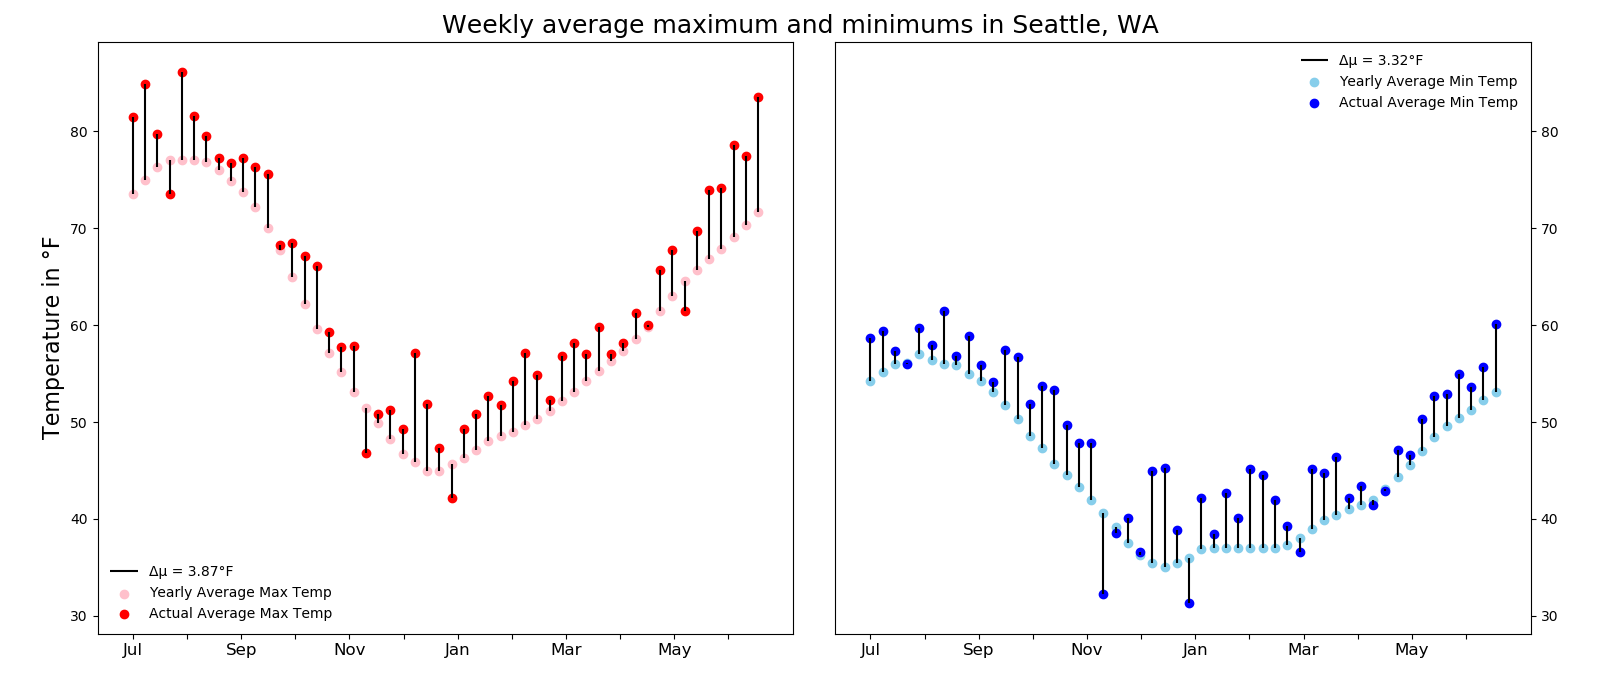
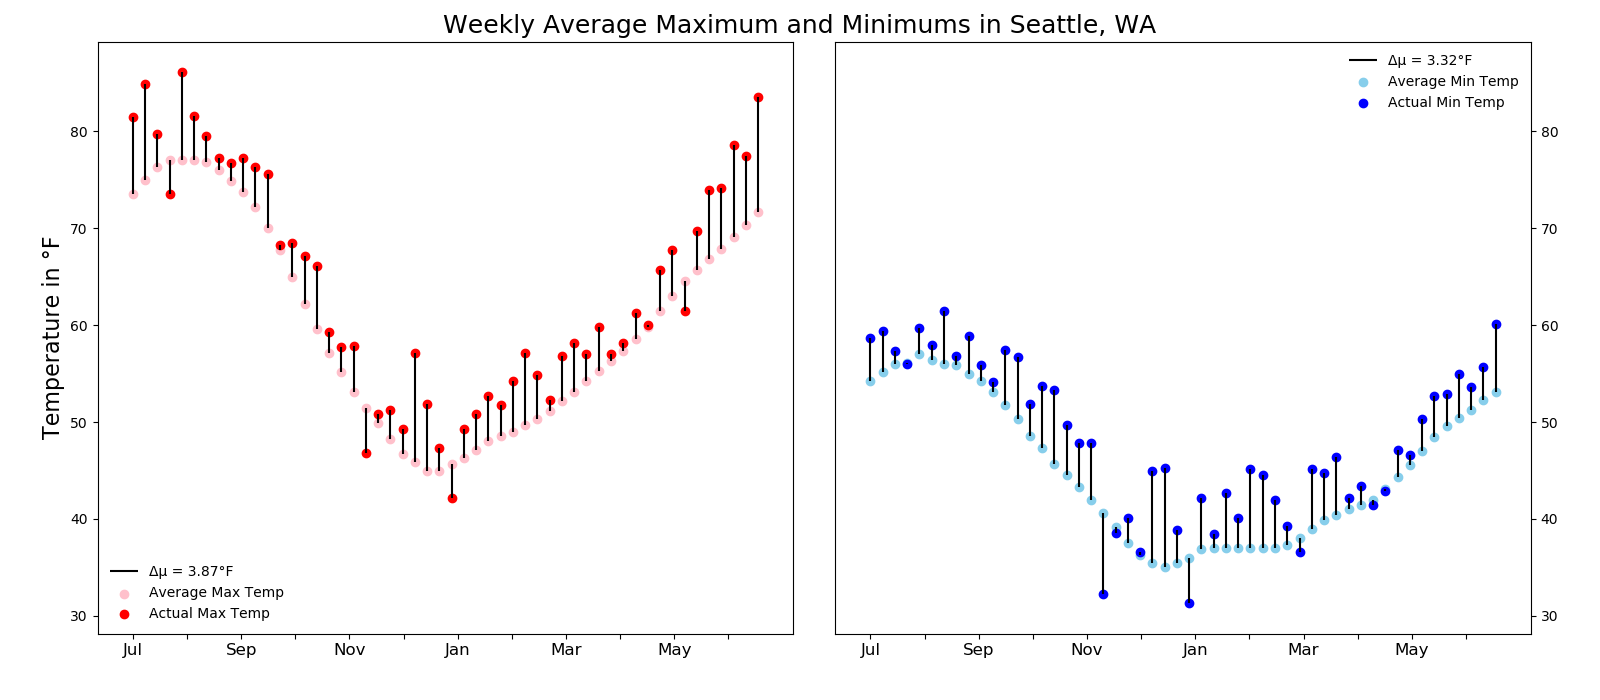
final edits

diff --git a/exploratory.py b/exploratory.py
@@ -93,14 +93,14 @@ class weather_examiner(object):
 
         # Plot the weekly historical averages
         ax[0].scatter(week_df.adjusted_week, week_df.average_max_temp,
-                      color='pink', label='Yearly Average Max Temp')
+                      color='pink', label='Average Max Temp')
         ax[1].scatter(week_df.adjusted_week, week_df.average_min_temp,
-                      color='skyblue', label='Yearly Average Min Temp')
+                      color='skyblue', label='Average Min Temp')
         # Plot the current weekly averages
         ax[0].scatter(week_df.adjusted_week, week_df.actual_max_temp,
-                      color='red', label='Actual Average Max Temp')
+                      color='red', label='Actual Max Temp')
         ax[1].scatter(week_df.adjusted_week, week_df.actual_min_temp,
-                      color='blue', label='Actual Average Min Temp')
+                      color='blue', label='Actual Min Temp')
 
         # Show the legends and remove the frame to see the plots better
         ax[0].legend(loc="lower left", framealpha=0)
@@ -109,7 +109,7 @@ class weather_examiner(object):
         ax[0].set_ylabel('Temperature in °F', fontsize=16)
 
         # Put a title in the center of the two graphs
-        plt.suptitle(f'Weekly average maximum and minimums in'
+        plt.suptitle(f'Weekly Average Maximum and Minimums in'
                      f' {name}',
                      fontsize=18)
         # Add ticks and labels to left side
@@ -219,7 +219,7 @@ class weather_examiner(object):
         # Set labels and titles
         plt.ylabel('Number of Days', fontsize=14)
         plt.xlabel('Locations', fontsize=14)
-        plt.title(f'Number of Record Setting days in the past Year',
+        plt.title(f'Number of Record Setting Days in the Past Year',
                   fontsize=16)
         plt.legend()
         plt.tight_layout()
@@ -243,7 +243,7 @@ class weather_examiner(object):
         plt.ylabel('Days', fontsize=14)
         plt.xlabel('Location', fontsize=14)
         plt.xticks(rotation=90)
-        plt.title('Number of Consecutive Days with no Significant Rainfall',
+        plt.title('Number of Consecutive Days with No Significant Rainfall',
                   fontsize=16)
         plt.tight_layout()
 
@@ -256,9 +256,9 @@ class weather_examiner(object):
 if __name__ == "__main__":
     weather_ex = weather_examiner()
     # Bools to control which graphs are produced and if they are saved
-    make_temp_graphs = False
+    make_temp_graphs = True
     only_one = False
-    graph_rain = True
+    graph_rain = False
     graph_record = False
     graph_consecutive = False
     save = True

diff --git a/README.md b/README.md
@@ -1,6 +1,6 @@
 # US Weather Data Analysis
 
-This project analysis weather data pulled from ten cities weather stations.  The data was originally scraped from [Weather Underground](http://wunderground.com) by [FiveThirtyEight](https://github.com/fivethirtyeight/data/tree/master/us-weather-history)
+This project analyzes weather data pulled from ten city's weather stations.  The data was originally scraped from [Weather Underground](http://wunderground.com) by [FiveThirtyEight](https://github.com/fivethirtyeight/data/tree/master/us-weather-history)
 
 
 
@@ -21,71 +21,75 @@ Column | Description
 `record_precipitation` | The highest amount of rain or snow on that day since 1880
 
 
-## Initial looks at the data
-While looking through the dataset I found two missing data points, both from the Chicago dataset one each from `record_min_temp_year` and `record_max_temp_year`. I decided to try to find these missing data online but had no luck so i decided to leave it blank for now because techniques such as filling in with the average would not be appropriate in this situation.
+## Initial Look at the Data
+While looking through the dataset, I found that two data points,`record_min_temp_year` and `record_max_temp_year`, were missing for the city of Chicago. An initial search for these data points was not fruitful, so they are currently blank for now because techniques such as filling in with the average would not be appropriate in this situation.
 
 
-All code for graphs can be found under exploratory.py
+All code for graphs can be found under [exploratory.py](https://github.com/AJWyman1/us_weather/blob/main/exploratory.py)
 
 # Cumulative Rainfall
 
 
 ![](imgs/rainfall.png)
 
-When reviewing this graph two things stood out to me. First, Houston, received over 60 inches of precipitation over a one year span and more than a foot more than the closest other cities in the dataset. Houston's biggest month of rainfall came in May 2015 which I looked into further and discovered that on memorial day Houston received around 12 inches of rain in the span of ten hours causing $459.8 million in damages, one of the costliest floods in American history.
+When reviewing this graph two things stood out to me. First, Houston received over 60 inches of precipitation in just one year, which is over 12 inches more than the closest other cities in the dataset. Houston's biggest month of rainfall came in May, 2015. Upon further investigation, I discovered that on Memorial Day of that year Houston received approximately 12 inches of rain in the span of ten hours. This event resulted in $459.8 million in damages, one of the costliest floods in American history.
 
 
-On the other end of the spectrum I fully expected Seattle to be the leader in this category due to its reputation as the rainy city. However it came fourth, behind Houston, New York, Philadelphia, Indianapolis, and Jacksonville. Going further into my analysis I would find that Seattle ended up having a record setting year of heat. 
+Second, I expected Seattle to be the leader in this category due to its reputation as 'the rainy city'. However it came sixth, behind Houston, New York City, Philadelphia, Jacksonville and Indianapolis. Later in my analysis, I found that Seattle had a record setting year of heat. 
 
 
-(Upon further research I learned that Seattle is known as the rainiest city due to the number of days with rain and not the amount.)
+As as interesting aside, I learned that Seattle is known as the rainy city due to the number of days with rain and not the amount of rain.
 
-
+---
 The code for this graph can be found under:
 
     graph_rainfall
 
-For this graph I started with a single location in a dataframe which I grouped by the month. I then did the same for the rest of the locations appending it to the end of the original dataframe. I then took this large dataframe and turned it into a pivot table with the information I needed for the graph. Using pivot table functions I was able to sort the total values from largest to smallest. Finally I created the color gradient and changed the order of the legend to match the order seen on the graph.
+For this graph, I started with a single location in a dataframe, which I grouped by the month. I repeated the process for the remaining locations appending to the end of the original dataframe. I then took this large dataframe and turned it into a pivot table with the information I needed for the graph. Using pivot table functions I sorted the total values from largest to smallest. Finally I created the color gradient and changed the order of the legend to match the order seen on the graph.
 
-# Long periods without Precipitation 
+# Long Periods Without Precipitation 
 
-LA , while is in a desert, having less than ten inches of total rainfall struck me as odd, digging further I found that LA had 122 consecutive days where the precipitation was less than 1/20th of an inch with the next closest in Phoenix at less than half the duration. Indy only reached a maximum of 18 consecutive days without significant rainfall, the lowest of all ten cities.
+As depicted in the above graph, Los Angeles received fewer than 10 inches of total rainfall over the 12 month period. Upon further investigation, I found that the city had 122 consecutive days with no significant rainfall, defined here as precipitation accumulation at less than 1/20th of an inch in one day. Phoenix had the next longest number of days with no significant precipitation, but at less than half that of Los Angeles. Indianapolis had the shortest span of all 10 cities, with only 18 consecutive days without significant rainfall.
 
 ![](imgs/consecutive_days.png)
+
+---
 
 The code for this graph can be found under:
 
     graph_longest_drought
 
 
-In making this visualization I first used a list comprehension that looped through the datasets and called my function `longest_drought` which creates an accumulator which looks at the actual precipitation and updates if it is below the threshold. This data is then loaded into a dataframe, sorted and plotted.
+In making this visualization I first used a list comprehension that looped through the datasets and called the function `longest_drought`. This creates an accumulator and then compares the actual precipitation to a threshold, updating the accumulator if it is below the threshold. This data is then loaded into a dataframe, sorted, and plotted.
 
 # Historic Weather
 ![](imgs/record_days.png)
 
-Seattle set the most heat records with 20 beating Phoenix at 17 and every other city set records in the single digits. The rainy city lived up to it's name with the most days of record setting precipitation.
+Seattle set the most heat records with 20 days, more than Phoenix with 17 days. Every other city set records in the single digits. The 'rainy city' lived up to its nickname, with the most days of record setting precipitation.
 
+--- 
 The code for this graph can be found under:
 
     graph_records
 
-To create this graph I created masks for the dataframes to look at when the current year matched the year of the record. Due to the missing data in the Chicago dataset I also added another comparison to compare the actual high and lows to the record high and lows. I applied the same strategy of comparing actual to the record to obtain the number of days of record rainfall. However, with just that mask LA had a surprising number of "rainfall record", I looked further into this and saw quite a few instances of 0" as the record precipitation. With that in mind I added a check to see if the record precipitation was not zero.
+To create this graph I created masks for the dataframes to look at when the current year matched the year of the record. Due to the missing data in the Chicago dataset, I added another comparison to compare the actual high and lows to the record high and lows. I applied the same strategy of comparing actual to the record to obtain the number of days of record rainfall. However, with just that mask Los Angeles had a surprising number of "rainfall record". I looked further into this and saw quite a few instances of zero inches as the record precipitation. With that in mind I added a check to see if the record precipitation was not zero.
 
-# Weekly Averages 
-After seeing the number of records set in the timespan of the dataset I wanted to look at each city closer and see how different 2014-2015 was when compared to the average year in the city.
+# Weekly Temperature Averages 
+After seeing the number of records set in the timespan of the dataset I wanted examine each city more closely and see how different 2014-2015 was when compared to the average year in the city.
 <img src="imgs/weather.gif" width="1200">
 
-Seattle had an extremely warm year with the average high 3.87°F warmer than years before and lows following suit averaging 3.32°F higher than previous lows.
+Seattle had an extremely warm year with the average high 3.87°F warmer than previous years and lows following suit, averaging 3.32°F higher than previous lows.
 
-LA came in as a close second with highs 2.59°F higher and lows 3.02° warmer.
+Similarly, Los Angeles recorded higher than average weekly temperatures, with highs 2.59°F higher and lows 3.02°F warmer.
 
-Indianapolis had a colder year than average with highs 2.51°F colder and lows averaging 1.69°F lower than their average year. 
+However, Indianapolis had a colder year than average, with highs 2.51°F colder and lows 1.69°F lower than their average year. 
 
+---
 The code for this graph can be found under:
 
     avg_max_min_graph
 
-Finally, these graphs were created by first loading in the data, creating a new column corresponding to the week and grouping the data into these 52 rows to obtain the weekly averages. Using my function `get_change_in_average` I was able to calculate both the historical and the actual averages and find the difference. In order to visualize this data correctly I needed to create an adjusted week value to graph due to the datasets starting in the middle of the year, without this adjustment the graph would begin in January 2015 and end December 2014 which would cause confusion. Now that the data are in the correct order I plotted the historical high and low weekly averages followed by the dataset's actual weekly averages. In order to better visualize the difference in these points I added vertical lines starting at the historical average and stopping at the actual average. Changing the X-axis tick marks to represent months instead of weeks and adding tick marks and labels to the right side of the second plot helped to create better clarity.
+Finally, these graphs were created by first loading in the data, creating a new column corresponding to the week, and grouping the data into 52 rows to obtain the weekly averages. Using my function `get_change_in_average` I calculated both the historical and actual averages and found the difference. In order to visualize this data correctly I needed to create an adjusted week value to graph due to the datasets starting in the middle of the year. Without this adjustment the graph would begin in January 2015 and end in December 2014, which could cause confusion in viewers. Once the data were in the correct order, I plotted the historical high and low weekly averages followed by the dataset's actual weekly averages. In order to better visualize the difference in these points I added vertical lines starting at the historical average and stopping at the actual average. Changing the X-axis tick marks to represent months instead of weeks and adding tick marks and labels to the right side of the second plot helped to create better clarity.
 
 
 
